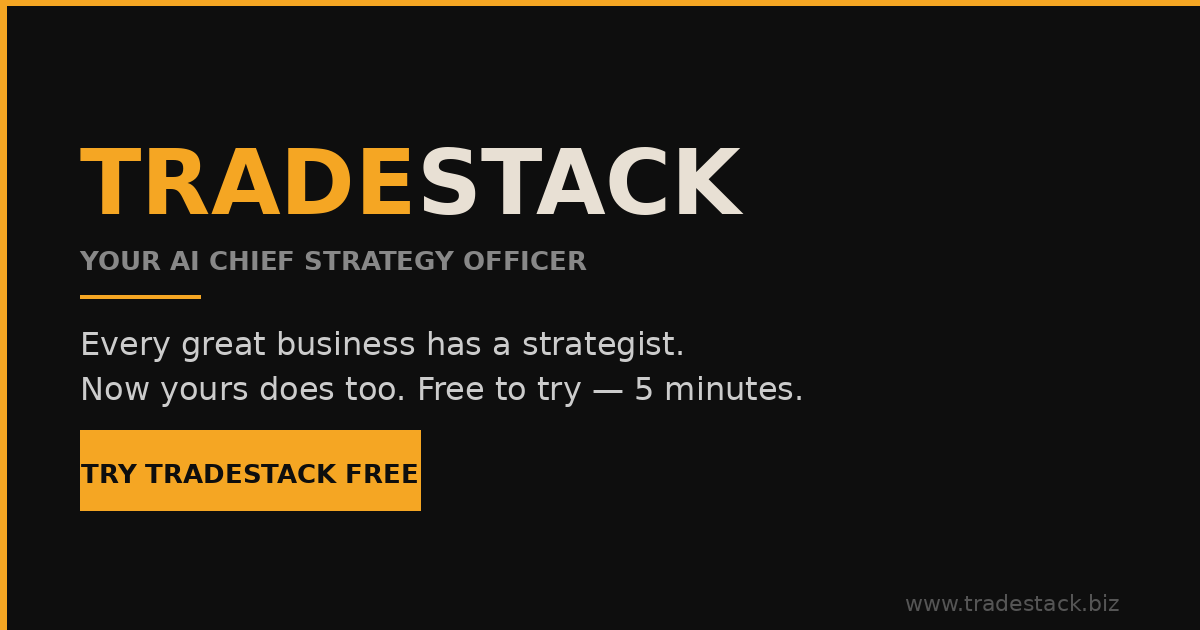
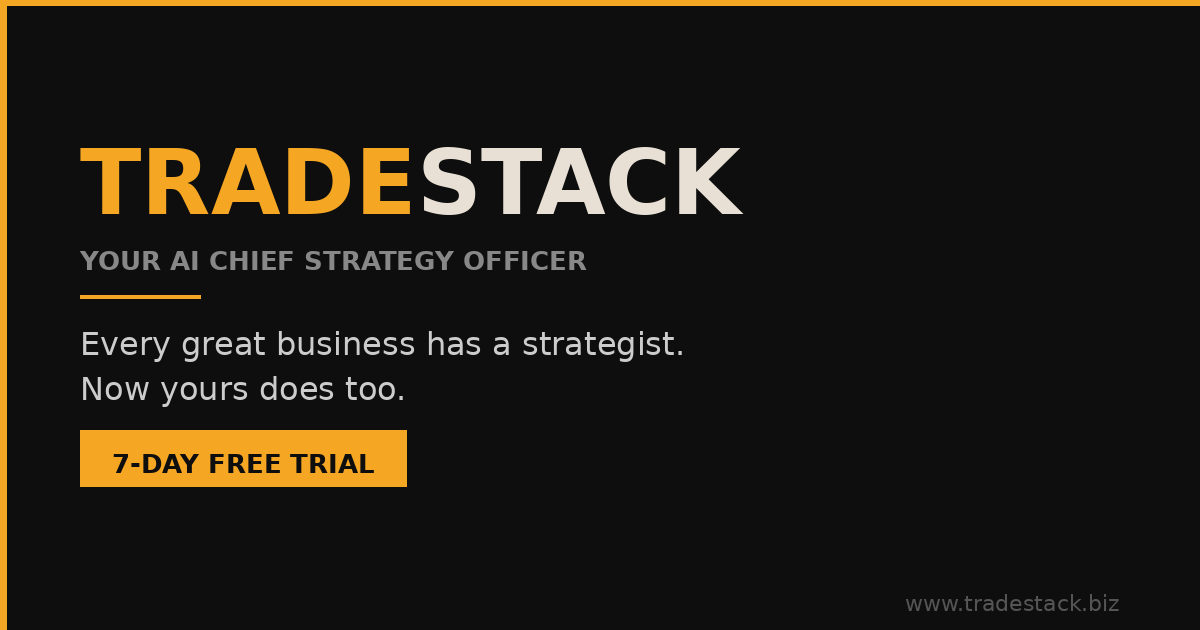
og: 7-day free trial button, title 47 chars, description 155 chars

Changed region(s): [[0.0617, 0.6635, 0.37, 0.8143], [0.3392, 0.6032, 0.6783, 0.6333]]

diff --git a/index.html b/index.html
@@ -3,14 +3,14 @@
   <head>
     <meta charset="UTF-8" />
     <meta name="viewport" content="width=device-width, initial-scale=1.0" />
-    <title>TradeStack — AI Chief Strategy Officer for Small Business Owners</title>
-    <meta name="description" content="TradeStack gives small business owners an AI Chief Strategy Officer that builds your lean canvas, scores your strategy, and surfaces exactly where to focus to grow revenue. Free to try. Takes 5 minutes." />
+    <title>TradeStack — AI Strategy Tool for Small Business</title>
+    <meta name="description" content="Every great business has a strategist. Now yours does too. TradeStack builds your lean canvas, scores your strategy, and shows where to focus. 7-day free trial." />
 
     <!-- Open Graph -->
     <meta property="og:type" content="website" />
     <meta property="og:url" content="https://www.tradestack.biz" />
-    <meta property="og:title" content="TradeStack — AI Chief Strategy Officer for Small Business Owners" />
-    <meta property="og:description" content="Every great business has a strategist. Now yours does too. TradeStack builds your lean canvas, scores your strategy, and shows you exactly where the money is. Free to try in 5 minutes." />
+    <meta property="og:title" content="TradeStack — AI Strategy Tool for Small Business" />
+    <meta property="og:description" content="Every great business has a strategist. Now yours does too. TradeStack builds your lean canvas, scores your strategy, and shows where to focus. 7-day free trial." />
     <meta property="og:image" content="https://www.tradestack.biz/og-image.png" />
     <meta property="og:image:type" content="image/png" />
     <meta property="og:image:width" content="1200" />
@@ -18,8 +18,8 @@
 
     <!-- Twitter Card -->
     <meta name="twitter:card" content="summary_large_image" />
-    <meta name="twitter:title" content="TradeStack — AI Chief Strategy Officer for Small Business Owners" />
-    <meta name="twitter:description" content="Every great business has a strategist. Now yours does too. TradeStack builds your lean canvas, scores your strategy, and shows you exactly where the money is. Free to try in 5 minutes." />
+    <meta name="twitter:title" content="TradeStack — AI Strategy Tool for Small Business" />
+    <meta name="twitter:description" content="Every great business has a strategist. Now yours does too. TradeStack builds your lean canvas, scores your strategy, and shows where to focus. 7-day free trial." />
     <meta name="twitter:image" content="https://www.tradestack.biz/og-image.png" />
   </head>
   <body>
